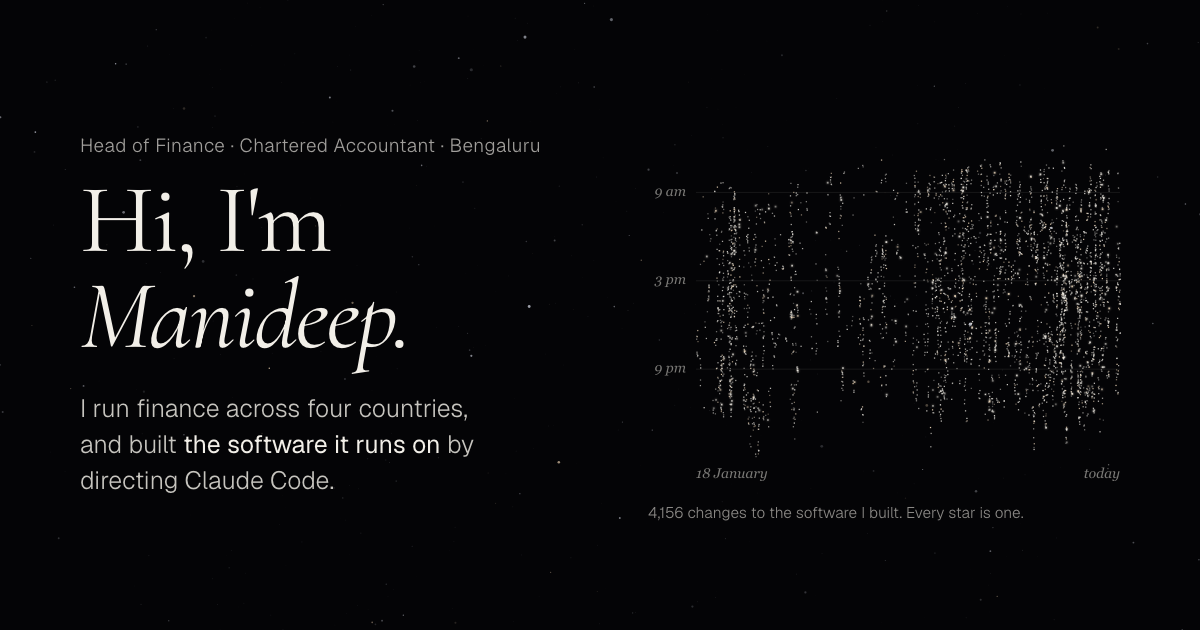
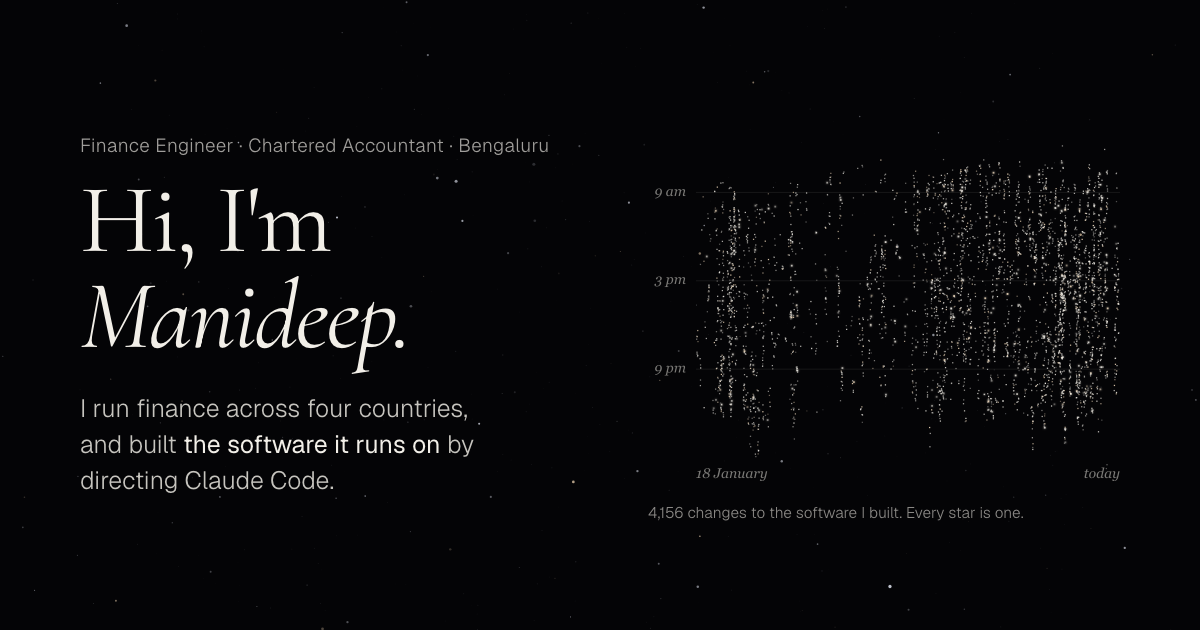
feat(site): the first screen says Finance Engineer
The kicker and the share image. "Head of Finance" stays where it is the job
title: the day-job section, the meta descriptions and the structured data.

diff --git a/index.html b/index.html
@@ -179,7 +179,7 @@
   <canvas id="dust" aria-hidden="true"></canvas>
   <div class="intro">
     <div>
-      <p class="who">Head of Finance · Chartered Accountant · Bengaluru</p>
+      <p class="who">Finance Engineer · Chartered Accountant · Bengaluru</p>
       <h1>Hi, I'm <em>Manideep.</em></h1>
       <p class="lede">I run finance across India, the UK, the Middle East and the US at UrbanPiper. I also built <b>the software that finance runs on</b>, by directing Claude Code in plain English.</p>
       <div class="pills">
